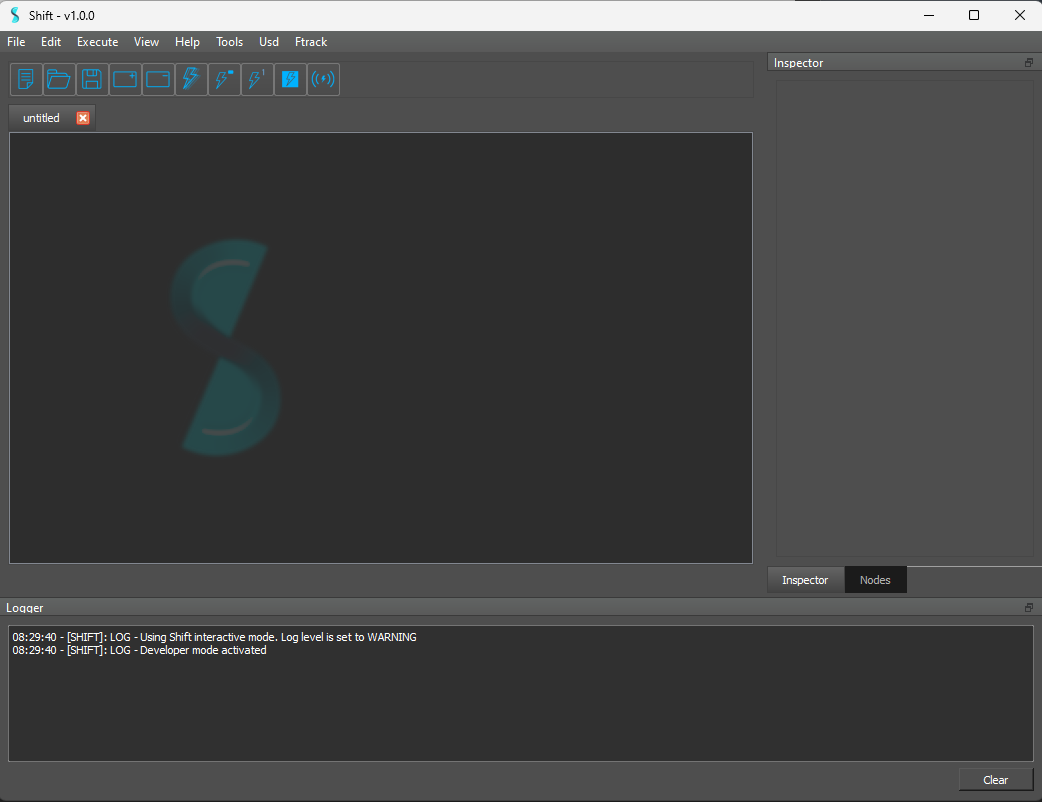
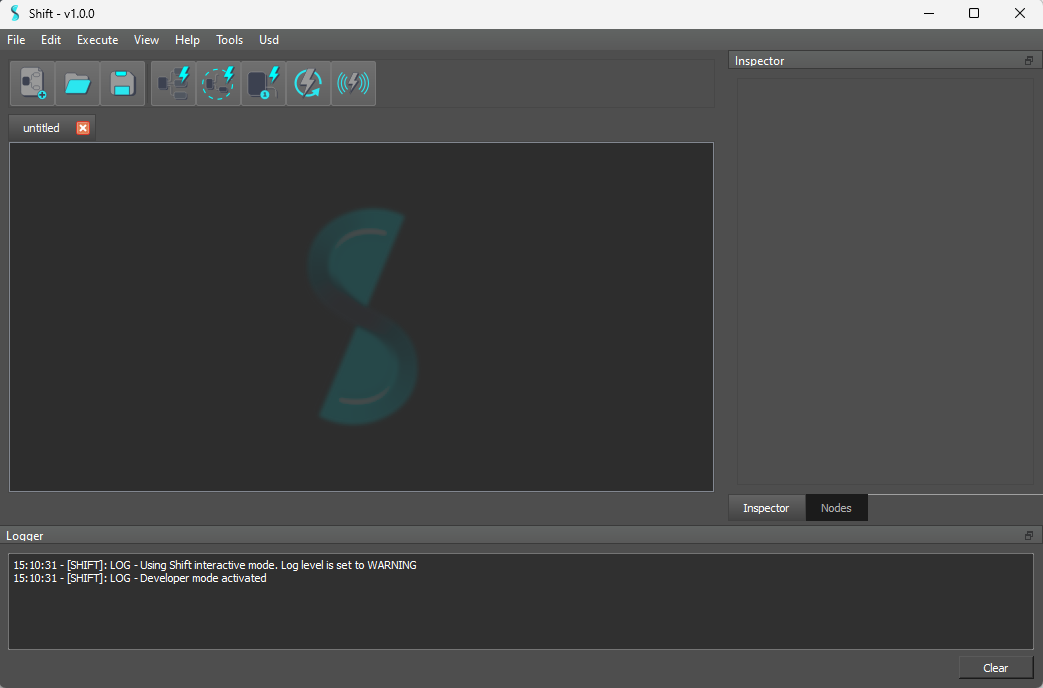
Populated the Getting Started section

diff --git a/docs/stylesheets/extra.css b/docs/stylesheets/extra.css
@@ -1,0 +1,5 @@
+theme.logo {
+    scale: 0.3;
+    margin: 0;
+    padding: 0;
+}

diff --git a/docs/intro/ui_overview.md b/docs/intro/ui_overview.md
@@ -1,0 +1,63 @@
+# UI Overview
+
+This is a quick introduction to the Shift user interface.
+
+## The Shift Window
+
+When you open Shift you will be prompted to a window like this:
+
+![Shift Window](../images/ui.png)
+
+Here you have all the components that will be used to create, test and debug your workflows.  
+
+## Toolbar
+
+You can find the toolbar at the top-right of the window.
+
+![Toolbar](../images/toolbar.png)
+
+From left to right, the image contains the following buttons needed to interact with the software:
+
+1. "*New Workflow*" - Used to start creating a new workflow from scratch
+2. "*Open Workflow*" - Used to open an existing workflow file
+3. "*Save*" - Used to save the current workflow file
+4. "*Execute*" - Used to execute all nodes in the current workflow
+5. "*Execute Selected*" - Used to execute the workflow up to the currently selected operator
+6. "*Execute Next Operator*" - Used to execute the next operator in the graph
+7. "*Stop Execution*" - Used to refresh the workflow execution status
+8. "*Toggle Live Execution*" - Used to toggle the live execution of the workflow
+
+## Board
+
+Right under the toolbar you will find the Shift board. This element is what will display your workflow graph. You can interact with it to create nodes, connect them together and navigate your creation.  
+
+**Controls**:
+
+- "*Pan*": `Alt Key + Left-Click` or `Middle-Click`
+- "*Zoom*": `Alt Key + Right-Click` or `Mouse Wheel`
+- "*Focus on Selected*": `f Key`
+- "*Select*": `Left-Click`
+- "*Add to Selection*": `Shift Key + Left-Click`
+- "*Create Node*": `Double Left-Click` or `Tab Key`
+- "*Delete Selected*": `Delete Key`
+- **Don't know the name for dragging selection**
+
+You can open as many Shift boards as you want to work on different tasks at the same time; each will be displayed as a separate tab.
+
+## Inspector
+
+The inspector is a piece of the Shift window with location and size that can be customized. In our example figures it is located on the left of the main window.  
+It is used to display and modify the properties of the operators in the workflow. If we select an operator, the inspector will react displaying its properties.
+
+![Inspector](../images/inspector.png)
+
+Here you can customize the name of the operator and visualize or change the values of its plugs.  
+The widgets in the inspector for the plug values also have a context menu accessible with `Right-Click` which will let you perform additional actions, like copying its value to the clipboard or opening a dialog showing more details.  
+
+## Logger
+
+Lastly in the bottom we can see the logger which will display and store all the information pertinent to your use of the software.  
+
+![Logger](../images/logger.png)
+
+Similarly to the inspector you can customize the location and size of this component by dragging it around.

diff --git a/docs/intro/execute.md b/docs/intro/execute.md
@@ -1,0 +1,19 @@
+# Executing Your Workflow
+
+You can execute your workflow in different ways:
+
+Click the “Execute” button (![Execute Button](../images/toolbar/button_execute.png){:width="25" height="25"}). You should see the nodes progress bars lighting up.
+
+![Execute All](../images/execute_all.gif)
+
+Shift uses dirty propagation to determine which nodes need to be recomputed. Whenever a property on a node is modified, that node is set to be recomputed in the next execution. You can force Shift to recompute all nodes by pressing the “Stop Execution” button (![Stop Execution](../images/toolbar/button_executeStop.png){:width="30" height="30"}).
+
+It is also possible to execute a workflow by single steps. Simply press the “Execute Next Operator” button (![Execute Next Button](../images/toolbar/button_executeNext.png){:width="30" height="30"}) to see the workflow being executed one node at a time.
+
+![Execute Step by Step](../images/execute_step_by_step.gif)
+
+The execution can also be forced on selected nodes. By selecting the desired nodes and pressing the “Execute Selected” button (![Execute Selected Button](../images/toolbar/button_executeSelected.png){:width="30" height="30"}), Shift will identify the workflow sub-graph required to evaluate the desired nodes and execute it.
+
+Finally, it is also possible to turn on the live execution of the workflow to be triggered whenever a change to any node is done. Press the “Toggle Live Execution” button (![Live Execute](../images/toolbar/button_executeLiveOff.png){:width="30" height="30"}) and Shift will execute the workflow automatically every time a change is being made. While the Live Execution is turned on, the other execution buttons are disabled. To re-enable all the execution buttons, turn Live Execution off.
+
+![Live Execution](../images/live_execution.gif)

diff --git a/docs/intro/authoring.md b/docs/intro/authoring.md
@@ -1,0 +1,36 @@
+# Workflow Authoring
+
+By opening Shift you will be prompted to an empty board.  
+
+## Creating Your First Node
+
+To create a new operator, you can either press the `Tab Key` or `Double Left-Click` with your mouse.  
+
+![Create Node Dialog](../images/node_creation_dialog.png "Create Node Dialog")  
+
+Then you can choose the type of operator you want to create and double-click on its name to create it.
+
+## Creating Connections
+
+If you want a certain operator to pass information to another one, you can connect their plugs. To do that, you just need to `Left-Click and Drag` from the plug to the plug you want to connect to. This will propagate whatever data is produced by the first operator and pass it to the other one through the connected plug.  
+
+![Connected Nodes](../images/connected_nodes.png "Connected Nodes")  
+
+This will have created the simplest example of a Shift workflow.
+
+## Creating New Plugs
+
+Certain nodes in Shift allow the creation of new plugs. To do that you can `Right-Click` on the node and select the "*Create New Plug*" option if available. It will prompt you to a new dialog asking to fill in the information needed to create the plug.
+
+![New Plug](../images/new_plug.gif)
+
+You can also prompt the creation of a new plug while you are creating a connection. This will automatically fill in the name and type matching the plug that the connection is coming from.
+To do that simply release your mouse over the node when creating the connection.
+
+![New Plug](../images/new_plug_drag_connection.gif)
+
+## Removing a Plug
+
+To remove a plug you can use the `Right-Click` context menu of the plug item. Removing a plug will destroy all the existing connections to that plug.
+
+![Removing Plug](../images/removing_plug.gif)

diff --git a/docs/faq.md b/docs/faq.md
@@ -1,0 +1,17 @@
+# FAQ
+
+**Is Shift Available on all Operating Systems?**
+
+Shift is available for all major 64-bit operating systems including Windows and Linux. MacOS compatability testing is currently in progress.
+
+**How many licenses do I need?**
+
+A node-locked license is required for every machine that shift will be running on to build and execute shift workflow graphs.
+We also offer interactive licenses which can be shared amongst machines one at a time.
+Batch Licenses are available for executing workflows only.
+
+**What software is Shift compatible with?**
+
+Shift is currently compatible with versions of Maya, Nuke, Houdini and Blender supporting Python ≥3.7
+This includes the following: ≥Maya2020, ≥Houdini 18, ≥Nuke 13, ≥Blender 2.8x
+Please get in touch with us at <shiftsupport@inbibo.co.uk> for any questions regarding compatibility or if you are looking to run shift in any customized environment or unlisted version.

diff --git a/docs/intro/nesting_workflows.md b/docs/intro/nesting_workflows.md
@@ -1,0 +1,16 @@
+# Nesting Workflows
+
+In Shift any workflow can be opened and executed as an operator.
+
+## Setting Workflow I/Os
+
+First of all we need to tell Shift which are the *Inputs* and *Outputs* of the workflow in question. To do that we make use of special operators called `Input` and `Output`. Then we need to create plugs for these operators corresponding to what we expect to be requested by the workflow and what we want to be returned.
+
+![Workflow I/Os](../images/workflow_ios.gif)
+
+## Workflow Operator
+
+The `Workflow` operator allows to embed the execution of a workflow file inside an operator and use it in another workflow.
+When setting the file plug content to source a valid *.sft* file, the node will automatically update adding the input and output plugs corresponding to the workflow inputs and outputs.
+
+![Nested Workflows](../images/nested_workflows.gif)

diff --git a/docs/intro/terminology.md b/docs/intro/terminology.md
@@ -1,0 +1,17 @@
+# Terminology
+
+Here are some of the basic terminology used in Shift:
+
+## Operator
+
+An operator is an execution block that is delegated of performing a specific action given a set of input data if required. From a programming perspective an operator can be seen as a function that takes some input data and processes it to produce some output data. Operators in Shift can be connected to propagate information between each other.  
+
+*\*operator* and *node* will be used interchangeably.  
+
+## Plug
+
+A plug is a Shift object containing the data that is passed to or from a certain operator. An operator could have input plugs on its left-side and output on its right-side.
+
+## Workflow
+
+A Shift workflow is a directed acyclic graph (DAG) that builds the causal relationship between the execution of its nodes.

diff --git a/docs/intro/scriptable_nodes.md b/docs/intro/scriptable_nodes.md
@@ -1,0 +1,12 @@
+# Python Script Operator
+
+In order to prototype your workflow or perform specific operations that are not included in Shift's builtin catalogs, you can script your custom operator with Python.  
+The **Python Script** operator offers the possibility to write your own code to tailor the processing of your data the way you want.  
+
+![Python Script Operator](../images/pyscript_node.png)  
+
+## External Python Packages
+
+You can also import external Python libraries to extend the functionality of your custom operator as long as the Python interpreter you used to start Shift has them available. To do that simply import the modules or packages inside the Python Script operator and use them as you would in any Python code.  
+
+This makes Shift compatible with any software that supports a Python API.

diff --git a/docs/requirements.md b/docs/requirements.md
@@ -2,16 +2,16 @@
 
 ## Software
 
-- Maya To Be Defined
-- Houdini To Be Defined
+- Python: 3.7+
+
+## External Dependencies
+
+- QtPy: 1.9.0
+- PySide2: 5.15.2
 
 ## System Requirements
 
 - **OS**: Microsoft Windows 10 (64bit) or higher, Linux CentOS 7+ (64-bit)
 - **CPU**: 64-bit Intel or AMD multi-core processor
-- **RAM**: 8GB required (12GB or more recommended)
-- **Storage**: 10MB of free disk space to instal.
-
-!!! Notes
-  - Shift may work with other CPU and RAM specifications.
-  - The list above represents the specifications that have been tested successfully.
+- **RAM**: 256MB suggested
+- **Storage**: at least 500MB of free disk space.

diff --git a/docs/installation.md b/docs/installation.md
@@ -1,3 +1,7 @@
 # Installation
 
-To Be Defined
+To install Shift on your machine simply download the .zip file build for the Python version of your liking from the [website](https://https://www.inbibo.co.uk/shift). Shift ditributions come with their own Python interpreter with all the required third-party libraries already packaged.
+
+Once you have the folder simply unzip it in the location that you prefer and double-click on the `shift.bat` file to run it.
+
+To run Shift using a custom Python interpreter check the [requrements page](requirements.md).  

diff --git a/docs/intro.md b/docs/intro.md
@@ -1,0 +1,6 @@
+# Introduction
+
+Shift is a node-based low-code automation software entirely written in Python.  
+With Shift you can create your own automation [workflows](intro/terminology.md/#workflow), and share them with others.
+
+You can us the builtin catalogs to start creating your workflows or write your own with the Shift [API](documentation/api.md)

diff --git a/docs/index.md b/docs/index.md
@@ -1,3 +1,10 @@
-# Introduction
+# Shift
 
-To Be Defined
+Welcome to the Shift documentation.
+
+- [Getting Started](intro.md)
+- [Installation](installation.md)
+- [Licensing](licensing.md)
+- [Requirements](requirements.md)
+- [Relese Notes](release_notes.md)
+- [FAQ](faq.md)
